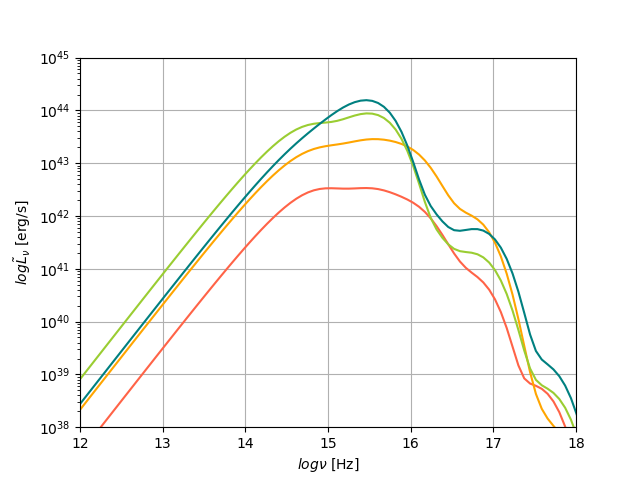
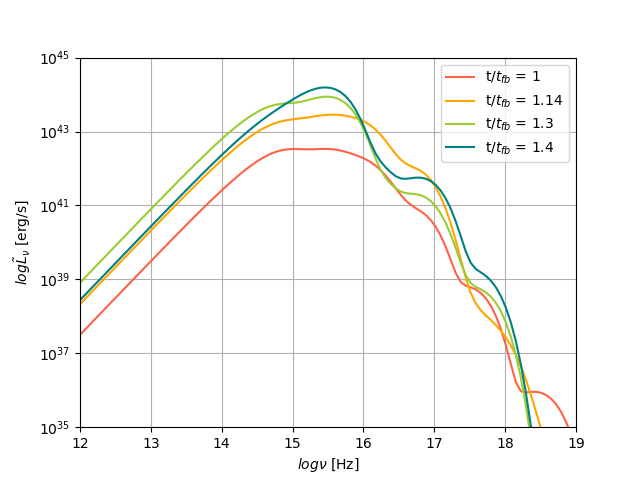
plot

diff --git a/L_tilde_TOTplot.py b/L_tilde_TOTplot.py
@@ -1,0 +1,47 @@
+import numpy as np
+import matplotlib.pyplot as plt
+
+m = 4
+L_tilda_n = np.loadtxt('Ltilda_m'+ str(m) + '.txt')
+
+n_logspace = L_tilda_n[0]
+
+if m == 6:
+    L_tilda_n844 = L_tilda_n[1]
+    L_tilda_n881 = L_tilda_n[2]
+    L_tilda_n925 = L_tilda_n[3]
+    L_tilda_n950 = L_tilda_n[4]
+
+    plt.plot(n_logspace, L_tilda_n844, c = 'tomato', label = 't/$t_{fb}$ = 1')
+    plt.plot(n_logspace, L_tilda_n881, c = 'orange', label = 't/$t_{fb}$ = 1.14')
+    plt.plot(n_logspace, L_tilda_n925, c = 'yellowgreen', label = 't/$t_{fb}$ = 1.3')
+    plt.plot(n_logspace, L_tilda_n950, c = 'teal', label = 't/$t_{fb}$ = 1.4')
+
+    plt.xlim(12,19)
+    plt.ylim(1e35, 1e45)
+
+if m == 4:
+    L_tilda_n233 = L_tilda_n[1]
+    L_tilda_n254 = L_tilda_n[2]
+    L_tilda_n263 = L_tilda_n[3]
+    #L_tilda_n950 = L_tilda_n[4]
+
+    plt.plot(n_logspace, L_tilda_n233, c = 'tomato', label = 't/$t_{fb}$ = 1')
+    plt.plot(n_logspace, L_tilda_n254, c = 'orange', label = 't/$t_{fb}$ = 1.2')
+    plt.plot(n_logspace, L_tilda_n263, c = 'yellowgreen', label = 't/$t_{fb}$ = 1.3')
+    #plt.plot(n_logspace, L_tilda_n263, c = 'teal', label = 't/$t_{fb}$ = 1.4')
+
+    plt.xlim(12,18)
+    plt.ylim(1e32, 1e42)
+
+plt.xlabel(r'$log\nu$ [Hz]')
+plt.yscale('log')
+plt.ylabel(r'$log\tilde{L}_\nu$ [erg/s]')
+plt.grid()
+plt.legend()
+#plt.axvline(14, color = 'tab:orange')
+#plt.axvline(17, color = 'tab:orange')
+#plt.axvspan(14, 17, alpha=0.3, color = 'tab:orange', label = 'UV band')
+plt.savefig('TOT_Ltilda_m' + str(m) + '.png' )
+plt.show()
+

diff --git a/luminosityBB.py b/luminosityBB.py
@@ -44,12 +44,13 @@ n_array = np.linspace(n_min, n_max, num = n_spacing)
 n_logspace = np.linspace(np.log10(n_min), np.log10(n_max), num = n_spacing)
 
 # Snapshots
-fixes4 = np.arange(233,263 + 1)
-days4 = [1.015, 1.025, 1.0325, 1.0435, 1.0525, 1.06, 1.07, 1.08, 1.0875, 1.0975, 1.1075, 1.115, 1.125, 1.135, 1.1425, 1.1525, 1.1625, 1.17, 1.18, 1.19, 1.1975, 1.2075, 1.2175, 1.2275, 1.235, 1.245, 1.255, 1.2625, 1.2725, 1.2825, 1.29] #t/t_fb
-# days4 = [4.06,4.1,4.13,4.17,4.21,4.24,4.28,4.32,4.35,4.39,4.43,4.46,4.5,4.54,4.57,4.61,4.65,4.68,4.72,4.76,4.79,4.83,4.87,4.91,4.94,4.98,5.02,5.05,5.09,5.13,5.16] #days
-fixes6 = [844, 881, 925, 950]
-days6 = [1.00325, 1.13975, 1.302, 1.39425] #t/t_fb
-# days6 = [40, 45, 52, 55] #days
+fixes4 = [177]
+fixes4.append(np.arange(233,264))
+days4 = [0.5, 1.015, 1.025, 1.0325, 1.0435, 1.0525, 1.06, 1.07, 1.08, 1.0875, 1.0975, 1.1075, 1.115, 1.125, 1.135, 1.1425, 1.1525, 1.1625, 1.17, 1.18, 1.19, 1.1975, 1.2075, 1.2175, 1.2275, 1.235, 1.245, 1.255, 1.2625, 1.2725, 1.2825, 1.29] #t/t_fb
+# days4 = [2, 4.06,4.1,4.13,4.17,4.21,4.24,4.28,4.32,4.35,4.39,4.43,4.46,4.5,4.54,4.57,4.61,4.65,4.68,4.72,4.76,4.79,4.83,4.87,4.91,4.94,4.98,5.02,5.05,5.09,5.13,5.16] #days
+fixes6 = [844, 881, 898, 925, 950, 1006]
+days6 = [1.00325, 1.13975, 1,2025, 1.302, 1.39425, 1.60075] #t/t_fb
+# days6 = [40, 45, 48, 52, 55, 64] #days
 
 ###
 ##

diff --git a/red.py b/red.py
@@ -53,9 +53,9 @@ if m == 4:
     days = [1.015, 1.025, 1.0325, 1.0435, 1.0525, 1.06, 1.07, 1.08, 1.0875, 1.0975, 1.1075, 1.115, 1.125, 1.135, 1.1425, 1.1525, 1.1625, 1.17, 1.18, 1.19, 1.1975, 1.2075, 1.2175, 1.2275, 1.235, 1.245, 1.255, 1.2625, 1.2725, 1.2825, 1.29] #t/t_fb
     #days = [4.06,4.1,4.13,4.17,4.21,4.24,4.28,4.32,4.35,4.39,4.43,4.46,4.5,4.54,4.57,4.61,4.65,4.68,4.72,4.76,4.79,4.83,4.87,4.91,4.94,4.98,5.02,5.05,5.09,5.13,5.16] #days
 if m == 6:
-    fixes = [844, 881, 925, 950]
-    days = [1.00325, 1.13975, 1.302, 1.39425] #t/t_fb
-    #days = [40, 45, 52, 55] #days
+    fixes = [844, 881, 925, 950, 1006]
+    days = [1.00325, 1.13975, 1.302, 1.39425, 1.6] #t/t_fb
+    #days = [40, 45, 52, 55, 64] #days
 
 #%% Data Load
 ###
@@ -259,10 +259,17 @@ def doer_of_thing(fix, m):
     return lum
 
 lums = []
-for fix in fixes:
+fixesnew = [1006]
+for fix in fixesnew:
     lum = doer_of_thing(fix, m)
     lums.append(lum)
- #%%
+
+with open('reddata_m'+ str(m) + '.txt', (days, lums), 'a') as f:
+    f.write(days[4])
+    f.write(lums)
+    f.close()
+
+#%%
 plt.figure()
 np.savetxt('reddata_m'+ str(m) + '.txt', (days, lums))
 plt.plot(days, lums, '-o', color = 'maroon')
@@ -272,5 +279,4 @@ plt.ylabel('Bolometric Luminosity [erg/s]')
 plt.xlabel('Days')
 plt.title('FLD for $10^4 \quad M_\odot$')
 plt.grid()
-#plt.show()
-# %%
+plt.show()

diff --git a/src/Extractors/xyz_extractor.py b/src/Extractors/xyz_extractor.py
@@ -97,7 +97,7 @@ def extractor(filename):
             vol_data = f[key]['Volume']
             
             ie_data = f[key]['InternalEnergy']
-            rad_data = f[key]['Erad'] # ['tracers']['ZRadEnergy'] # f[key]
+            rad_data = f[key]['tracers']['ZRadEnergy'] # f[key]
             T_data = f[key]['Temperature']
             P_data = f[key]['Pressure']
             for i in range(len(x_data)):
@@ -121,11 +121,11 @@ def extractor(filename):
     return X, Y, Z, Den, Vx, Vy, Vz, Vol, Mass, IE, Rad, T, P
 #%%
 # Change the current working directory
-fixes = np.arange(232,264 + 1)
+fixes = [1006]
 for fix in fixes:
     fix = str(fix)
-    snapshot = '4/' + fix + '/snap_' + fix + '.h5'
-    pre = '4/' + fix + '/'
+    snapshot = '6/' + fix + '/snap_' + fix + '.h5'
+    pre = '6/' + fix + '/'
     suf = '_' + fix
 
     X, Y, Z, Den, Vx, Vy, Vz, Vol, Mass, IE, Rad, T, P = extractor(snapshot)
@@ -146,7 +146,4 @@ for fix in fixes:
     np.save(pre + 'Rad' + suf, Rad)
     np.save(pre + 'T' + suf, T)
     np.save(pre + 'P' + suf, P) 
-from src.Utilities.finished import finished
-finished()
-
             
